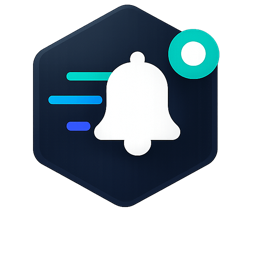
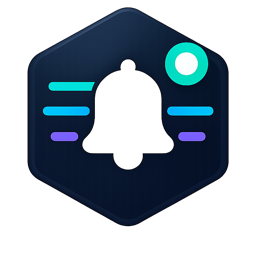
docs(site): polish hero branding

Changed region(s): [[0.0938, 0.0938, 0.9062, 0.9062], [0.1875, 0.0, 0.5938, 0.1875], [0.5938, 0.0625, 0.6562, 0.0938]]

diff --git a/site/assets/styles.css b/site/assets/styles.css
@@ -101,20 +101,16 @@ img {
 }
 
 .brand-mark {
-  width: 54px;
-  height: 54px;
+  width: 48px;
+  height: 48px;
   flex: 0 0 auto;
   display: grid;
   place-items: center;
-  border-radius: 15px;
-  background: linear-gradient(145deg, rgba(12, 28, 48, 0.96), rgba(6, 16, 29, 0.96));
-  border: 1px solid rgba(170, 187, 210, 0.12);
-  box-shadow: 0 10px 24px rgba(0, 0, 0, 0.2);
 }
 
 .brand-mark img {
-  width: 46px;
-  height: 46px;
+  width: 48px;
+  height: 48px;
   object-fit: contain;
   display: block;
 }
@@ -179,7 +175,6 @@ img {
   text-transform: uppercase;
 }
 
-.hero h1,
 .section h2,
 .page-hero h1,
 .docs-card h3,
@@ -190,10 +185,12 @@ img {
 
 .hero h1 {
   margin: 18px 0 18px;
-  font-size: clamp(3.6rem, 5.5vw, 5.8rem);
-  line-height: 0.98;
-  letter-spacing: 0;
-  max-width: 10ch;
+  font-family: var(--sans);
+  font-size: clamp(3rem, 4.4vw, 4.8rem);
+  line-height: 1.04;
+  letter-spacing: -0.055em;
+  max-width: 12ch;
+  font-weight: 700;
 }
 
 .hero p,
@@ -297,8 +294,10 @@ img {
 }
 
 .hero-poster-frame {
-  min-height: 430px;
-  padding: 32px;
+  min-height: 340px;
+  max-height: 420px;
+  aspect-ratio: 1.55;
+  padding: clamp(22px, 3vw, 36px);
   border-radius: var(--radius-xl);
   background:
     radial-gradient(circle at 82% 18%, rgba(87, 225, 193, 0.2), transparent 26%),
@@ -326,7 +325,8 @@ img {
 .hero-poster {
   position: relative;
   z-index: 1;
-  width: min(100%, 680px);
+  width: min(86%, 620px);
+  max-height: 78%;
   height: auto;
   display: block;
   object-fit: contain;
@@ -1051,6 +1051,17 @@ th {
 
   .hero-panel {
     min-height: 420px;
+  }
+
+  .hero-poster-frame {
+    min-height: 260px;
+    max-height: none;
+    aspect-ratio: 1.35;
+  }
+
+  .hero-poster {
+    width: min(90%, 420px);
+    max-height: 82%;
   }
 
   .section-head {

diff --git a/site/index.html b/site/index.html
@@ -42,7 +42,7 @@
         <section class="hero">
           <div class="hero-inner">
             <div class="hero-copy animate-in">
-              <span class="eyebrow">Open source notification control plane</span>
+              <span class="eyebrow">Self-hosted notification control plane</span>
               <h1>One control plane for every notification flow.</h1>
               <p>
                 NotifyHub centralizes templates, providers, routing, callbacks, retries, and observability so upstream services can stay simple and generic.